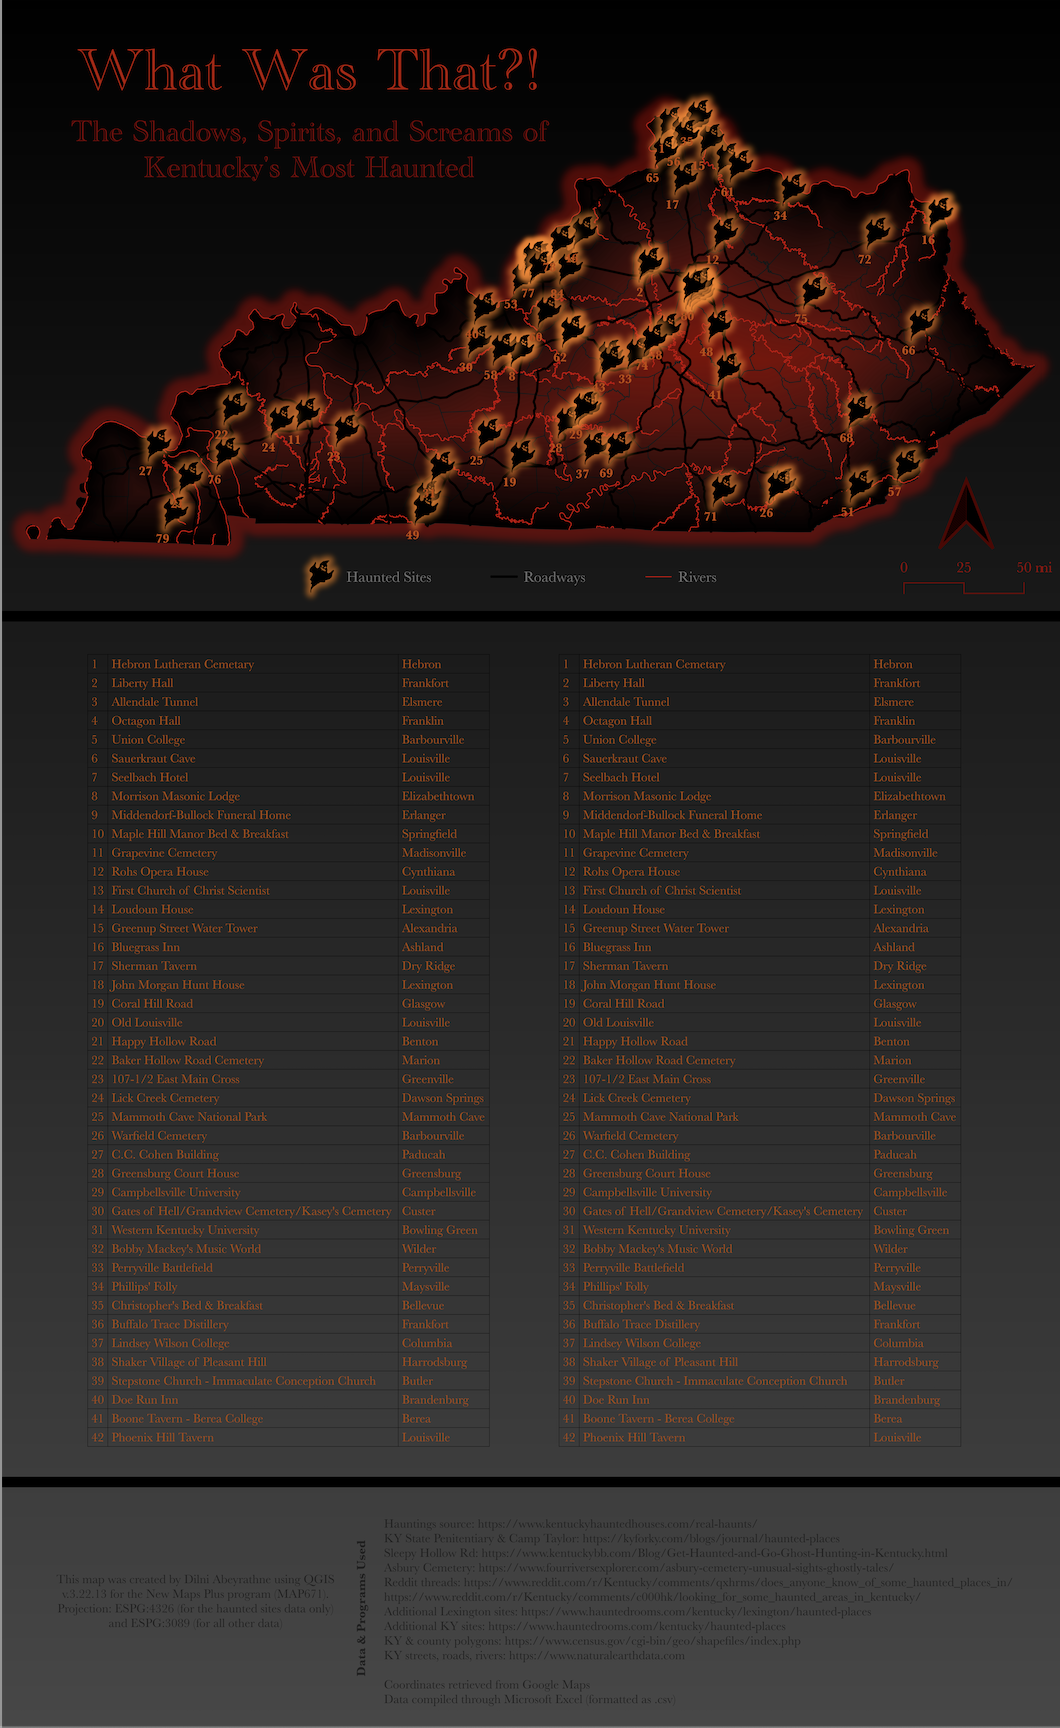
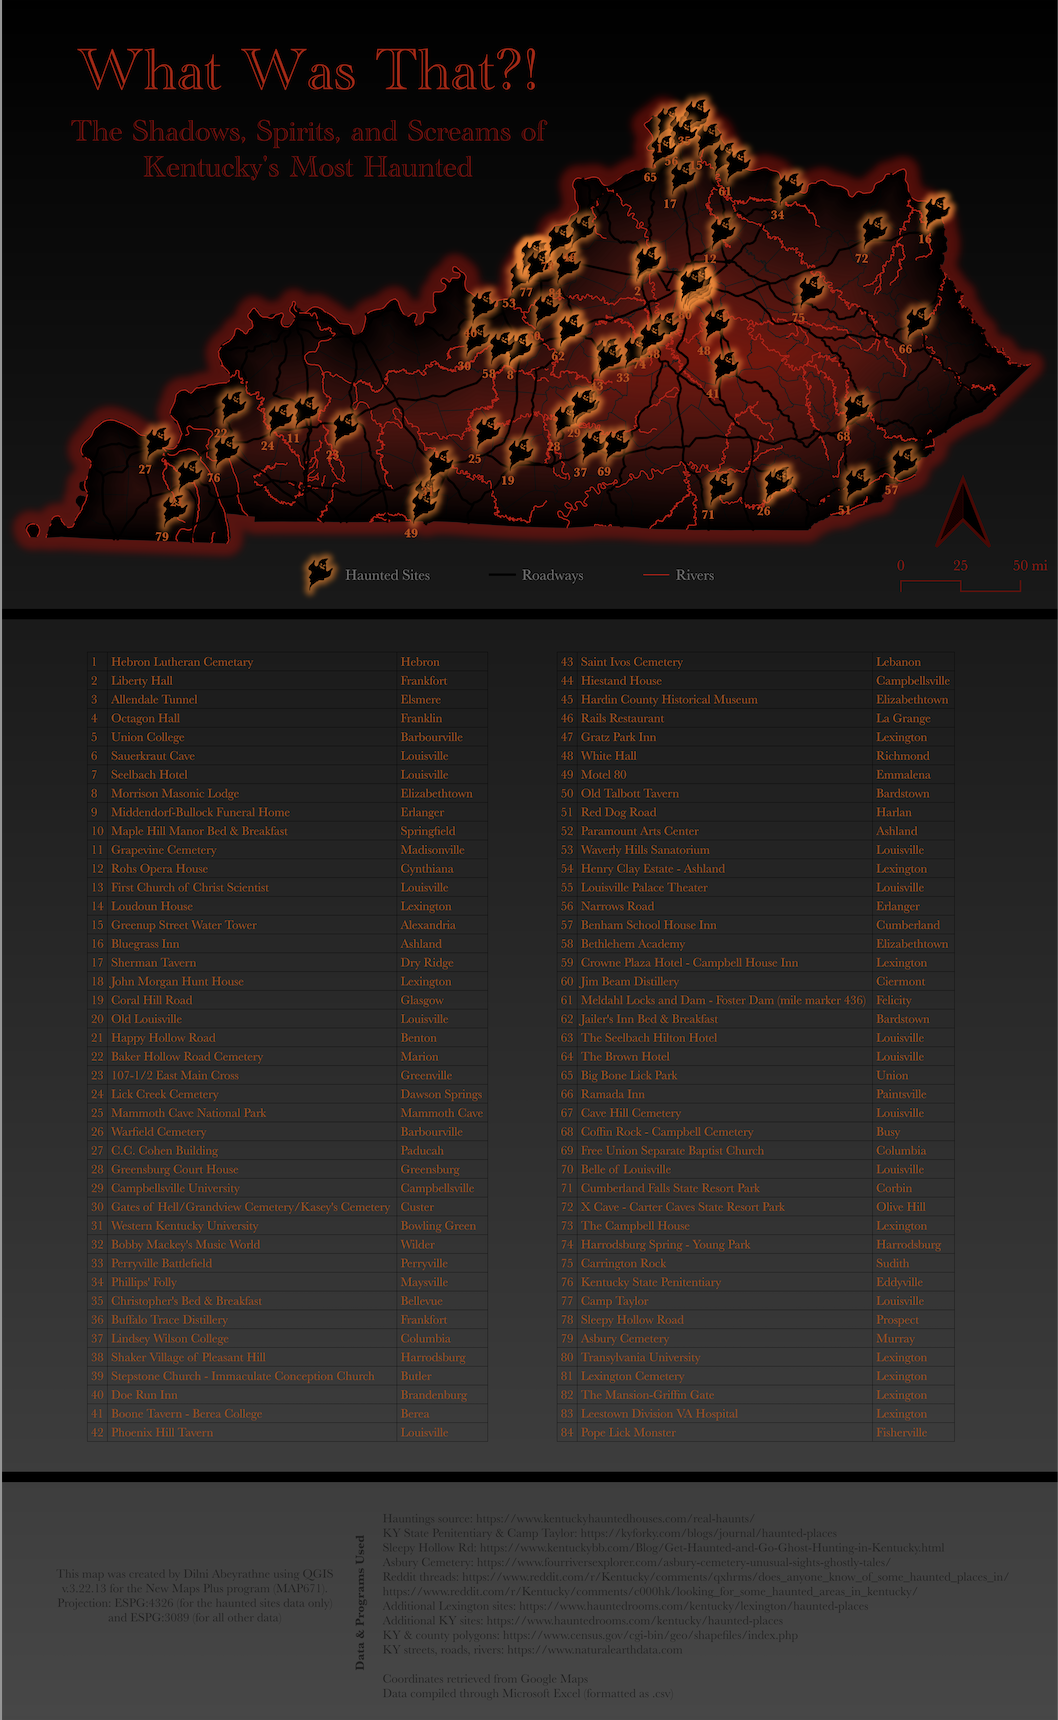
update map images
update map images and README section on attribute table addition to map

diff --git a/README.md b/README.md
@@ -126,10 +126,14 @@ Here is the basic workflow for getting my map onto the print layout:
 2. Add the map using the "Add Map" button on the left
 3. Add the legend using the "Add Legend" mao button on the left
 
-Once I had all this added, I went right to work getting all the layouts as precise as possible. I wanted a more vertical-heavy layout as I wished to add in an extensive legend matching each haunted site number with its unique ID, name, and location. To do that, I first extended the page height to 485mm then added in two attribute tables (42 row limit each) from the "Add Attribute Table" button on the bottom left. Upon addition of the two table, I modified each table to only display three columns: Unique_ID, place_name, and Location (**click on layer** --> **go to "Main Properties"** --> **"Attributes"**).
+Once I had all this added, I went right to work getting all the layouts as precise as possible. I wanted a more vertical-heavy layout as I wished to add in an extensive legend matching each haunted site number with its unique ID, name, and location. To do that, I first extended the page height to 485mm then added in two attribute tables (42 row limit each) from the "Add Attribute Table" button on the bottom left. Upon addition of the two tables, I modified each table to only display three columns: Unique_ID, place_name, and Location (**click on layer** --> **go to "Main Properties"** --> **"Attributes"**).
+Additionally, the second attribute table had to be modified with a function in the "Filter With" section:  **"Unique_ID" >= '43'**. This ensures that the table doesn't show only the first 42 rows (like the first table) and instead shows the second 42 rows.
 
 ![Attribute table styling in print layout composer](graphics/Attribute_ss.png)    
 *Attribute table styling in print layout composer*
+
+![Adding a filtering function for the second attribute table](graphics/Attribute_table2_function_ss.png)    
+*Adding a filtering function for the second attribute table*
 
 Next, I added a title, a subtitle, data sources, and map attribution to the output, styling them all accordingly to fit into the map's spooky theme (AKA the attribute tables were orange, the titles red, and the legend text and data & attributions a semi-light gray). As a note, I used two specific fonts for this map: Academy Engraved LET (for the title and subtitle) and Baskerville (for everything else).
 
